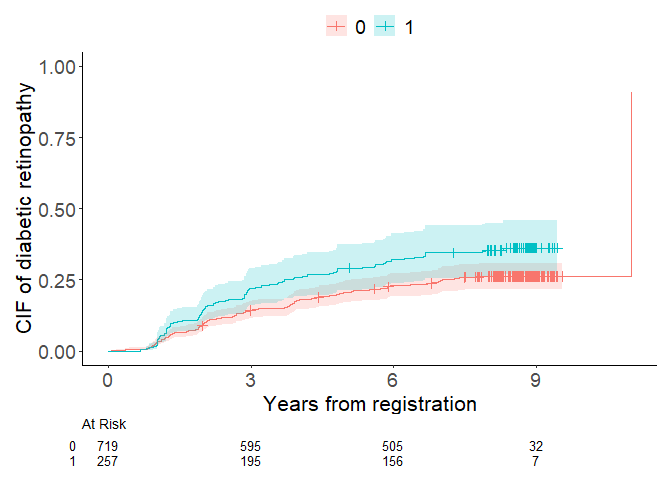
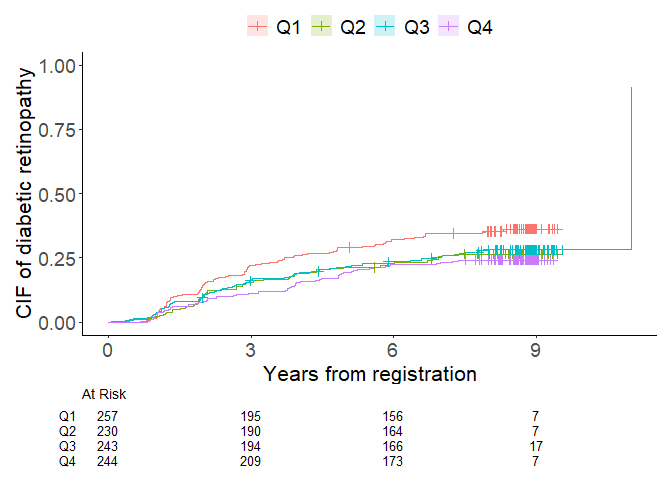
README.Rmd updated

diff --git a/README.md b/README.md
@@ -98,14 +98,17 @@ such as **modelsummary** or **broom** for reporting.
 ``` r
 library(cif)
 data(diabetes.complications)
-output1 <- cif_curve(Event(t,epsilon) ~ fruitq1, data = diabetes.complications, outcome.type='COMPETING-RISK', error='delta', ggsurvfit.type = 'risk', label.y = 'CIF of diabetic retinopathy', label.x = 'Years from registration')
+output1 <- cif_curve(Event(t,epsilon) ~ fruitq, data = diabetes.complications, 
+           outcome.type='COMPETING-RISK', error='delta', ggsurvfit.type = 'risk', 
+           label.y = 'CIF of diabetic retinopathy', label.x = 'Years from registration')
 ```
 
 <img src="man/figures/README-syntax-1.png" width="100%" />
 
 ``` r
-output2 <- cif_reg(nuisance.model = Event(t,epsilon) ~ +1, exposure = 'fruitq1', data = diabetes.complications,
-          effect.measure1='RR', effect.measure2='RR', time.point=8, outcome.type='COMPETING-RISK')
+output2 <- cif_reg(nuisance.model = Event(t,epsilon) ~ +1, exposure = 'fruitq', 
+           data = diabetes.complications, effect.measure1='RR', effect.measure2='RR', 
+           time.point=8, outcome.type='COMPETING-RISK')
 ```
 
 ## Installation
@@ -224,16 +227,18 @@ outcomes of individual observations.
 ## Example 1. Unadjusted competing risks analysis
 
 For the initial illustration, unadjusted analysis focusing on cumulative
-incidence probabilities of event 1 and 2 at 8 years of follow-up is
+incidence probabilities of diabetic retinopathy (event 1) and
+macro-vascular complications (event 2) at 8 years of follow-up is
 demonstrated. Regression coefficients and variance covariance matrix of
 both exposure (fruitq1) and covariates (intercept in this case) in the
-fitted direct polytomous regression are presented.
+fitted log-odds product models are presented.
 
 ``` r
 library(cif)
 data(diabetes.complications)
-cif_curve(Event(t,epsilon) ~ fruitq1, data = diabetes.complications, outcome.type='COMPETING-RISK', error='delta', 
-          ggsurvfit.type = 'risk', label.y = 'CIF of diabetic retinopathy', label.x = 'Years from registration')
+cif_curve(Event(t,epsilon) ~ fruitq1, data = diabetes.complications, 
+          outcome.type='COMPETING-RISK', error='delta', ggsurvfit.type = 'risk', 
+          label.y = 'CIF of diabetic retinopathy', label.x = 'Years from registration')
 ```
 
 <img src="man/figures/README-example1-1.png" width="100%" />
@@ -371,10 +376,12 @@ msummary(output$summary, statistic = c("conf.int", "p.value"), exponentiate = TR
 ## Example 2. Survival analysis
 
 The second example is time to first event analysis
-(outcome.type=‘SURVIVAL’) to estimate the effects on the risk of
+(`outcome.type='SURVIVAL'`) to estimate the effect on the risk of
 diabetic retinopathy or macrovascular complications at 8 years.
-Estimates other than the effects of exposure (e.g. intercept) are
-suppressed when `report.nuisance.parameter` is not specified.
+Dependent censoring is adjusted by stratified IPCW method
+(`strata='strata'`). Estimates other than the effects of exposure
+(e.g. intercept) are suppressed when `report.nuisance.parameter` is not
+specified.
 
 ``` r
 data(diabetes.complications)
@@ -397,12 +404,11 @@ msummary(output$summary, statistic = c("conf.int"), exponentiate = TRUE)
 | converged.by     | Converged in objective function |
 | nleqslv.message  | Function criterion near zero    |
 
-## Example 3. Competing risks analysis
+## Example 3. Adjusted competing risks analysis
 
-The code below specifies direct polytomous regression of both of
-competing events (outcome.type=‘COMPETING-RISK’). Here 15 covariates and
-censoring strata are specified in nuisance.model= and strata=,
-respectively.
+The code below specifies polytomous log-odds models of both of competing
+events (outcome.type=‘COMPETING-RISK’). Here 15 covariates and censoring
+strata are specified in `nuisance.model=` and `strata=`, respectively.
 
 ``` r
 output <- cif_reg(nuisance.model = Event(t,epsilon) ~ age+sex+bmi+hba1c+diabetes_duration
@@ -503,10 +509,10 @@ msummary(output$summary, statistic = c("conf.int"), exponentiate = TRUE)
   validate non-negative times, check that the event codes match the
   user-specified `code.event*` arguments, and derive indicators used
   downstream.
-- The `outcome.type` argument is normalised by the same utility, meaning
-  that the same set of synonyms (e.g. `"C"`, `"COMPETING-RISK"`,
-  `"SURVIVAL"`, etc.) are accepted in both workflows and mapped onto the
-  canonical labels used in the estimators.
+- The `outcome.type` argument is normalized by the same utility, meaning
+  that the same set of synonyms (e.g. `"C"`, `"competing risk"`, or
+  `"S"`) are accepted in both workflows and mapped onto the canonical
+  labels used in the estimators.
 
 **Key differences**
 
@@ -516,18 +522,19 @@ msummary(output$summary, statistic = c("conf.int"), exponentiate = TRUE)
   all strata are handled through the formula term that is turned into a
   factor for plotting and estimation.
 - In `cif_reg()` the `nuisance.model` formula describes only the outcome
-  and nuisance covariates, while the exposure is passed separately
-  through the `exposure` argument. The exposure design matrix, reference
-  level handling, and scaling of nuisance covariates are handled
-  explicitly for regression fitting.
+  and nuisance covariates (i.e. confounders), while the exposure is
+  passed separately through the `exposure` argument. The exposure design
+  matrix, reference level handling, and scaling of nuisance covariates
+  are handled explicitly for regression fitting.
 - `cif_curve()` focuses on two estimands, selecting between Kaplan–Meier
   and Aalen–Johansen calculations via `outcome.type = "SURVIVAL"` or
   `"COMPETING-RISK"`. In contrast, `cif_reg()` supports additional
-  longitudinal and binomial estimands (`"PROPORTIONAL"`,
+  time-constant and binomial estimands (`"PROPORTIONAL"`,
   `"POLY-PROPORTIONAL"`, `"BINOMIAL"`) and enforces time-point
   requirements accordingly—for example `time.point` is mandatory for
-  survival/competing-risk contrasts, while proportional-effect models
-  can infer a grid of follow-up times when the argument is omitted.
+  survival/competing-risk contrasts, while time-constant-effect models
+  can infer all event time or a use-specified grid of time passing a
+  vector using `time.point`.
 
 ### Variance and confidence interval options for `cif_curve()`
 
@@ -550,21 +557,21 @@ standard errors from `survfit`.
 
 **Confidence intervals.** `calculateCI()` constructs intervals on the
 probability scale using the requested transformation:
-`"arcsine-square root"`/`"a"` (default), `"plain`, `"log"`, `"log-log"`,
-or `"logit"`. Passing `"none"`/`"n"` skips interval computation
-entirely. The function exponentiates back to the probability scale,
-clips bounds to \[0, 1\], and replaces undefined values with `NA` so
-that interval endpoints remain well behaved in plots and summaries.
+`"arcsine-square root"`/`"arcsine"`/`"a"` (default), `"plain`, `"log"`,
+`"log-log"`, or `"logit"`. Passing `"none"`/`"n"` skips interval
+computation entirely. The function exponentiates back to the probability
+scale, clips bounds to \[0, 1\], and replaces undefined values with `NA`
+so that interval endpoints remain well behaved in plots and summaries.
 
 ### Key arguments of `msummary()` that are helpful when reporting `cif_reg()` results
 
-- `output` – controls the destination of the table (e.g., `'markdown'`,
-  `'latex'`, `'html'`, or a file path such as
+- `output` – controls the destination of the table (e.g., `"markdown"`,
+  `"latex"`, `"html"`, or a file path such as
   `'results/cif_table.docx'`).
 - `coef_map` or `coef_rename` – renames model terms for
   interpretability.
 - `statistic` – specifies which uncertainty estimates to display. For
-  example, `statistic = '"p.value'`shows p-values instead of standard
+  example, `statistic = "p.value"` shows p-values instead of standard
   errors.
 
 You can also supply multiple model summaries as a named list to compare
